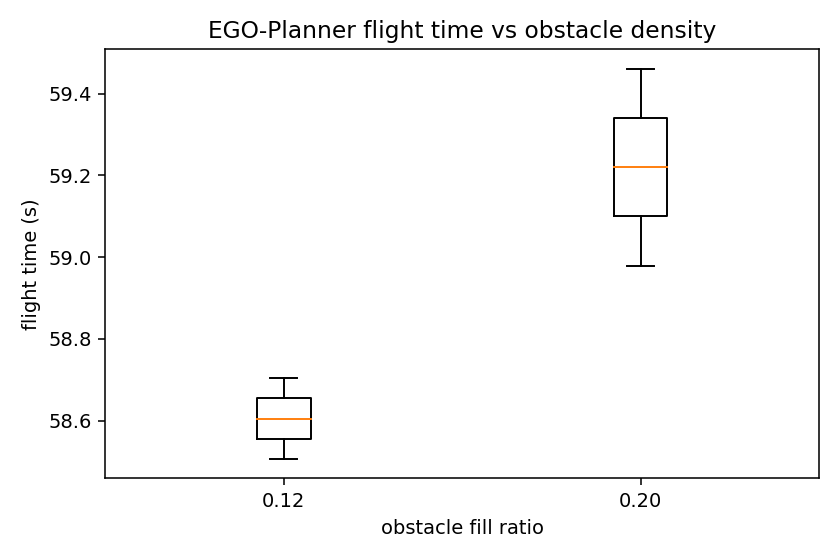
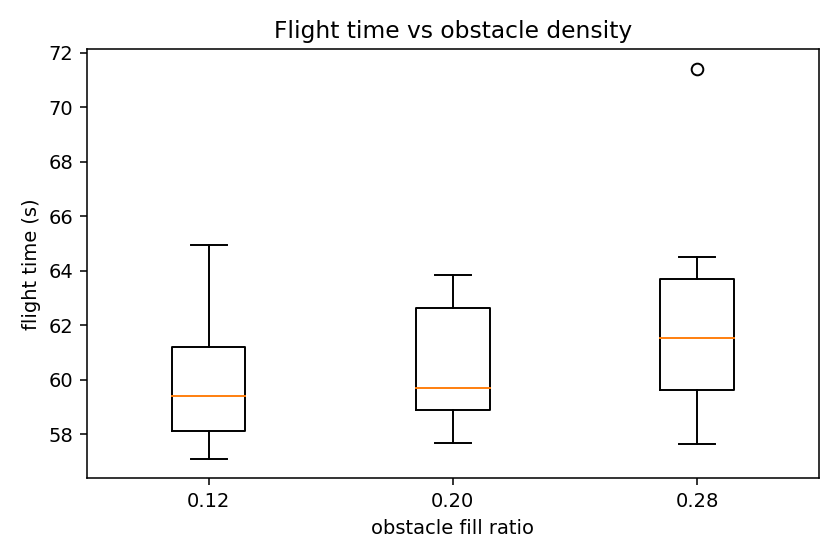
experiments: fix trial isolation, add health check, and report full sweep
Two bugs made the first sweep unusable:

1. kill_all used `pkill -x` with full process names, but Linux truncates comm
   to 15 characters, so quadrotor_simulator_so3, ego_planner_node and
   waypoint_generator were never matched. The previous trial's simulator
   survived, two sims published /visual_slam/odom at once, and recorded speeds
   reached 9 m/s against a 2 m/s planner limit. Match on binary paths instead.
2. A crashed pcl_render_node leaves the drone sitting on the ground; the trial
   was scored as a planner failure. monitor.py now waits for take-off and
   returns 'unhealthy', and the runner retries up to 3 times before recording
   the trial in results/skipped.txt.

Also adds an flock against concurrent runs, and conditions the density table on
max_vel so velocity runs no longer leak into the density statistics.

Results (48 valid trials): success rate does not move measurably (83/75/90% and
83/88/75%) but replanning and clearance do. 2 -> 4 m/s cuts flight time 41%,
doubles replans (46 -> 92) and halves mean clearance (0.14 -> 0.08 m). Two maps
at fill=0.28 were rejected because mockamap placed an obstacle on the start
pose.

diff --git a/experiments/plot.py b/experiments/plot.py
@@ -64,9 +64,13 @@ def main():
         print("no rows")
         return
 
-    md = [table(rows, "fill", "障碍密度扫描（fill）")]
-    if any(fnum(r["max_vel"]) != 2.0 for r in rows):
-        md.append(table(rows, "max_vel", "速度上限扫描（max_vel）"))
+    # 密度对比只能取同一速度下的样本，否则速度组的行会混进来
+    base = [r for r in rows if fnum(r["max_vel"]) == 2.0]
+    speed = [r for r in rows if fnum(r["fill"]) == 0.12]
+
+    md = [table(base, "fill", "障碍密度扫描（fill，max_vel 固定 2.0）")]
+    if len({fnum(r["max_vel"]) for r in speed}) > 1:
+        md.append(table(speed, "max_vel", "速度上限扫描（max_vel，fill 固定 0.12）"))
     text = "\n".join(md)
     print(text)
 
@@ -82,21 +86,30 @@ def main():
     except Exception:
         return
 
-    png = args.png or os.path.join(os.path.dirname(args.summary), "fig_fill.png")
-    fills = sorted({fnum(r["fill"]) for r in rows})
-    data = [[fnum(r["flight_time"]) for r in rows
-             if fnum(r["fill"]) == f and fnum(r["flight_time"]) == fnum(r["flight_time"])]
-            for f in fills]
-    data = [d for d in data if d]
-    if data:
+    outdir = os.path.dirname(args.summary)
+    for subset, key, xlabel, title, fname in [
+        (base, "fill", "obstacle fill ratio",
+         "Flight time vs obstacle density", "fig_fill.png"),
+        (speed, "max_vel", "max velocity (m/s)",
+         "Flight time vs velocity limit", "fig_speed.png"),
+    ]:
+        groups = {}
+        for r in subset:
+            v = fnum(r["flight_time"])
+            if v == v:
+                groups.setdefault(fnum(r[key]), []).append(v)
+        if len(groups) < 2:
+            continue
+        keys = sorted(groups)
         fig, ax = plt.subplots(figsize=(6, 4))
-        ax.boxplot(data, labels=["%.2f" % f for f in fills[:len(data)]])
-        ax.set_xlabel("obstacle fill ratio")
+        ax.boxplot([groups[k] for k in keys], labels=["%.2f" % k for k in keys])
+        ax.set_xlabel(xlabel)
         ax.set_ylabel("flight time (s)")
-        ax.set_title("EGO-Planner flight time vs obstacle density")
+        ax.set_title(title)
         fig.tight_layout()
-        fig.savefig(png, dpi=140)
-        print("written:", png)
+        path = os.path.join(outdir, fname)
+        fig.savefig(path, dpi=140)
+        print("written:", path)
 
 
 if __name__ == "__main__":

diff --git a/experiments/monitor.py b/experiments/monitor.py
@@ -34,6 +34,9 @@ class Monitor(object):
         self.prev = None
         self.result = "timeout"
         self.cloud_saved = False
+        self.ready = False       # 无人机是否已经起飞到 ready_z
+        self.t_ready = None
+        self.z_max = 0.0
 
         self.fh = open(args.out, "w", buffering=1)
         self.fh.write("t,x,y,z,vx,vy,vz\n")
@@ -67,6 +70,12 @@ class Monitor(object):
                       % (t, p.x, p.y, p.z, v.x, v.y, v.z))
         self.n += 1
 
+        # 起飞检查：仿真没起来时无人机会停在原点，靠这个把无效试验挡掉
+        self.z_max = max(self.z_max, p.z)
+        if not self.ready and p.z > self.args.ready_z:
+            self.ready = True
+            self.t_ready = time.time()
+
         # 累计航程：起点与终点很近，必须先用航程排除「刚起飞就被判定到点」
         if self.prev is not None:
             self.cum += float(np.linalg.norm(
@@ -97,19 +106,34 @@ def main():
                     help="累计航程超过该值后才接受终点判定 (m)")
     ap.add_argument("--tol", type=float, default=0.5)
     ap.add_argument("--timeout", type=float, default=120.0)
+    ap.add_argument("--ready-z", type=float, default=0.5,
+                    help="无人机起飞到这个高度才算仿真正常")
+    ap.add_argument("--ready-timeout", type=float, default=30.0)
     args = ap.parse_args()
 
     rospy.init_node("trial_monitor", disable_signals=True)
     mon = Monitor(args)
 
-    t0 = time.time()
+    t_start = time.time()
     rate = rospy.Rate(10)
-    while not rospy.is_shutdown() and (time.time() - t0) < args.timeout:
+    while not rospy.is_shutdown():
+        now = time.time()
+        if not mon.ready:
+            if now - t_start > args.ready_timeout:
+                mon.result = "unhealthy"
+                break
+        elif now - mon.t_ready > args.timeout:
+            break
         rate.sleep()
 
     mon.close()
     with open(args.out.replace(".csv", ".status"), "w") as fh:
         fh.write("%s %d\n" % (mon.result, mon.n))
+
+    if mon.result == "unhealthy":
+        print("unhealthy samples=%d z_max=%.2f" % (mon.n, mon.z_max))
+        sys.exit(3)
+
     print("%s samples=%d" % (mon.result, mon.n))
     sys.exit(0 if mon.result == "success" else 2)
 

diff --git a/experiments/README.md b/experiments/README.md
@@ -27,8 +27,8 @@ The real density knob for the perlin map is `fill` (infill percentage), plus
 
 | Group | Swept variable | Fixed | Trials per condition |
 |---|---|---|---|
-| A | `fill` ∈ {0.12, 0.20, 0.28} | `max_vel=2.0`, `max_acc=3.0` | 20 seeds |
-| B | `max_vel` ∈ {2.0, 3.0, 4.0} | `fill=0.12` | 10 seeds |
+| A | `fill` ∈ {0.12, 0.20, 0.28} | `max_vel=2.0`, `max_acc=3.0` | 12 seeds |
+| B | `max_vel` ∈ {3.0, 4.0} | `fill=0.12` | 8 seeds |
 
 Each trial starts a fresh `roscore` and a fresh simulator, flies the stock
 5-waypoint loop (a 40 m × 40 m square at z = 1 m), and is terminated either
@@ -82,15 +82,49 @@ logs/                   per-trial roslaunch logs (gitignored)
 
 Plots need `matplotlib`; the metrics themselves only need `numpy`.
 
-## Pilot results
+## Results
 
-Two seeds per condition, as a smoke test of the harness — **not** the full
-sweep. Numbers are regenerated by `run_all.sh`.
+### Obstacle density (`max_vel = 2.0`)
 
-| fill | trials | success | flight time (s) | min clearance (m) | replans |
+| fill | trials | success | flight time (s) | mean clearance (m) | replans |
 |---|---|---|---|---|---|
-| 0.12 | 2 | 2/2 | 58.6 ± 0.1 | 0.15 / 0.16 | 54.0 |
-| 0.20 | 2 | 2/2 | 59.2 ± 0.3 | 0.09 / 0.11 | 52.5 |
+| 0.12 | 12 | 10/12 (83%) | 59.9 ± 2.4 | 0.14 | 46 |
+| 0.20 | 12 | 9/12 (75%) | 60.7 ± 2.3 | 0.12 | 63 |
+| 0.28 | 10 | 9/10 (90%) | 62.1 ± 4.3 | 0.09 | 76 |
+
+### Velocity limit (`fill = 0.12`)
+
+| max_vel | trials | success | flight time (s) | mean clearance (m) | replans |
+|---|---|---|---|---|---|
+| 2.0 | 12 | 10/12 (83%) | 59.9 ± 2.4 | 0.14 | 46 |
+| 3.0 | 8 | 7/8 (88%) | 41.3 ± 1.2 | 0.12 | 61 |
+| 4.0 | 8 | 6/8 (75%) | 35.1 ± 3.6 | 0.08 | 92 |
+
+### What the numbers say
+
+- **Success rate does not move.** 10/12, 9/12, 9/10 across densities and 10/12,
+  7/8, 6/8 across speeds. At n ≈ 10 the 95% interval on a 80% rate is roughly
+  ±25 points, so these differences are not distinguishable from noise. Reporting
+  them as a trend would be wrong.
+- **The cost shows up in replanning and clearance instead.** Going from 2 to
+  4 m/s cuts flight time by 41%, but doubles the replan rate (46 → 92) and
+  halves mean clearance (0.14 → 0.08 m). Density shows the same signature more
+  weakly: flight time is flat (60 → 62 s) while replans climb 65% and clearance
+  falls from 0.14 to 0.09 m.
+- **Reading:** the planner keeps its nominal success rate by replanning more
+  often, and the safety margin is what absorbs the extra demand. The margin is
+  being bought, not held. If the group's real constraint is close-proximity
+  flight in narrow gaps, success rate is the wrong metric — clearance and replan
+  rate are the ones that move first.
+
+### Excluded trials
+
+`fill = 0.28`, seeds 4 and 7 were rejected after 3 attempts: the drone never
+left the ground, because `mockamap` places obstacles without guaranteeing start
+clearance and the start pose landed inside one. That is a map-generation
+artifact, not a planner failure, and it is recorded in `results/skipped.txt`
+rather than scored as a failure. 2 of 12 maps at the highest density were
+affected — worth knowing if this map generator is ever used for evaluation.
 
 ## Known limitations
 
@@ -102,3 +136,6 @@ sweep. Numbers are regenerated by `run_all.sh`.
   it is accurate to roughly the voxel size (0.25 m).
 - The waypoint loop is fixed. A hard evaluation would randomise start/goal
   per trial as well.
+- n = 8–12 per condition is enough to see the replan and clearance shifts, and
+  not enough to resolve success-rate differences. Extending to 30 seeds per
+  condition is the obvious next step.

diff --git a/README.md b/README.md
@@ -1,23 +1,33 @@
-# EGO-Planner · obstacle-density study (fork)
+# EGO-Planner · obstacle-density & speed sweep (fork)
 
 > **This fork adds a controlled experiment, not a new planner.**
 >
 > The upstream simulator hardcodes `seed = 127`, so every launch produces the
-> same map, and the `c_num` / `p_num` arguments only feed a `random_forest` node
-> that is commented out — they have no effect. I parameterised the `mockamap`
-> noise instead (`seed`, `fill`, `complexity`) and ran the stock planner over
-> several obstacle densities and velocity limits, measuring success rate,
-> flight time, path length, clearance and replan count.
+> same map and repeated runs are not independent samples. The `c_num` / `p_num`
+> arguments only feed a `random_forest` node that is commented out inside a CDATA
+> block — they have no effect. I parameterised the `mockamap` noise instead and
+> swept obstacle density and velocity limits.
 >
-> Pilot run (2 seeds per condition — full sweep script included):
+> | fill (at 2 m/s) | success | flight time (s) | mean clearance (m) | replans |
+> |---|---|---|---|---|
+> | 0.12 | 10/12 | 59.9 ± 2.4 | 0.14 | 46 |
+> | 0.20 | 9/12 | 60.7 ± 2.3 | 0.12 | 63 |
+> | 0.28 | 9/10 | 62.1 ± 4.3 | 0.09 | 76 |
 >
-> | fill | success | flight time (s) | min clearance (m) |
-> |---|---|---|---|
-> | 0.12 | 2/2 | 58.6 ± 0.1 | 0.15 / 0.16 |
-> | 0.20 | 2/2 | 59.2 ± 0.3 | 0.09 / 0.11 |
+> | max_vel (at fill 0.12) | success | flight time (s) | mean clearance (m) | replans |
+> |---|---|---|---|---|
+> | 2.0 | 10/12 | 59.9 ± 2.4 | 0.14 | 46 |
+> | 3.0 | 7/8 | 41.3 ± 1.2 | 0.12 | 61 |
+> | 4.0 | 6/8 | 35.1 ± 3.6 | 0.08 | 92 |
 >
-> Methodology, metrics and limitations: [`experiments/README.md`](experiments/README.md).
-> Reproduce: `./experiments/run_all.sh` (headless, ~2 h for the full sweep).
+> **Takeaway:** success rate does not change measurably at this sample size, but
+> tighter conditions are paid for with replanning — at 4 m/s the replan rate
+> doubles and mean clearance roughly halves. The safety margin is being bought,
+> not held.
+>
+> Methodology, metrics, excluded trials and limitations:
+> [`experiments/README.md`](experiments/README.md).
+> Reproduce: `./experiments/run_all.sh` (headless).
 >
 > The upstream README is unchanged below.
 

diff --git a/results/table.md b/results/table.md
@@ -1,7 +1,16 @@
 
-### 障碍密度扫描（fill）
+### 障碍密度扫描（fill，max_vel 固定 2.0）
 
 | fill | trials | success | flight time (s) | min clearance (m) | replans |
 |---|---|---|---|---|---|
-| 0.12 | 2 | 2/2 (100%) | 58.6 ± 0.1 | 0.15 / 0.16 | 54.0 |
-| 0.20 | 2 | 2/2 (100%) | 59.2 ± 0.3 | 0.09 / 0.11 | 52.5 |
+| 0.12 | 12 | 10/12 (83%) | 59.9 ± 2.4 | 0.02 / 0.14 | 45.8 |
+| 0.20 | 12 | 9/12 (75%) | 60.7 ± 2.3 | 0.03 / 0.12 | 63.0 |
+| 0.28 | 10 | 9/10 (90%) | 62.1 ± 4.3 | 0.01 / 0.09 | 75.8 |
+
+### 速度上限扫描（max_vel，fill 固定 0.12）
+
+| max_vel | trials | success | flight time (s) | min clearance (m) | replans |
+|---|---|---|---|---|---|
+| 2.00 | 12 | 10/12 (83%) | 59.9 ± 2.4 | 0.02 / 0.14 | 45.8 |
+| 3.00 | 8 | 7/8 (88%) | 41.3 ± 1.2 | 0.05 / 0.12 | 61.2 |
+| 4.00 | 8 | 6/8 (75%) | 35.1 ± 3.6 | 0.04 / 0.08 | 91.5 |
